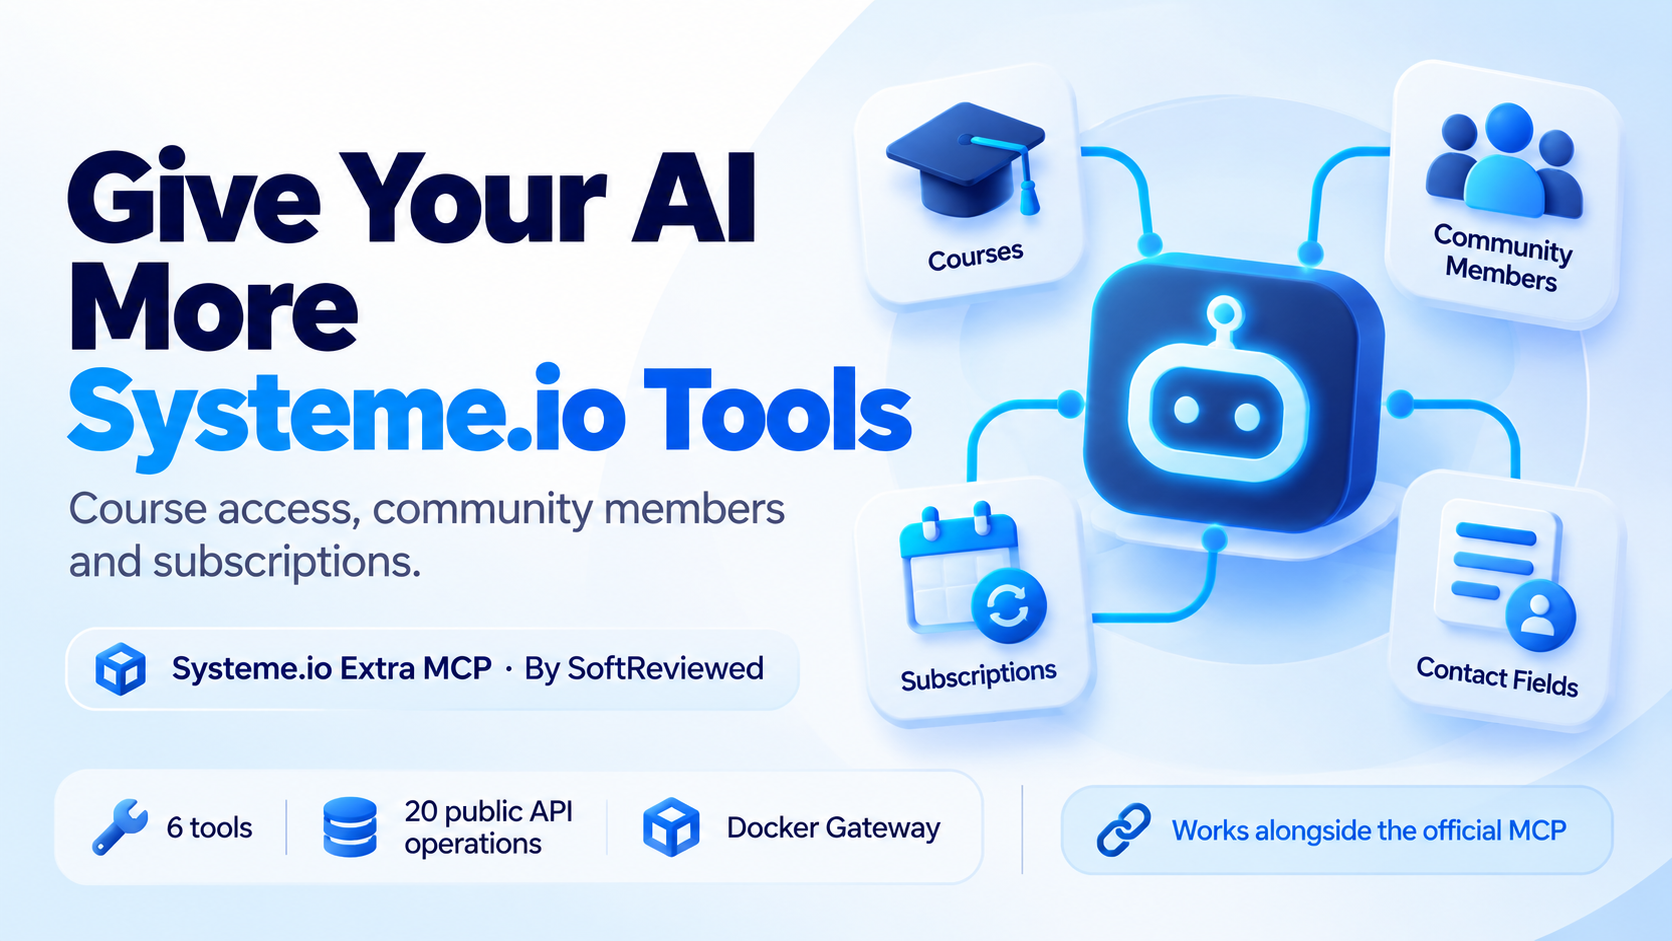
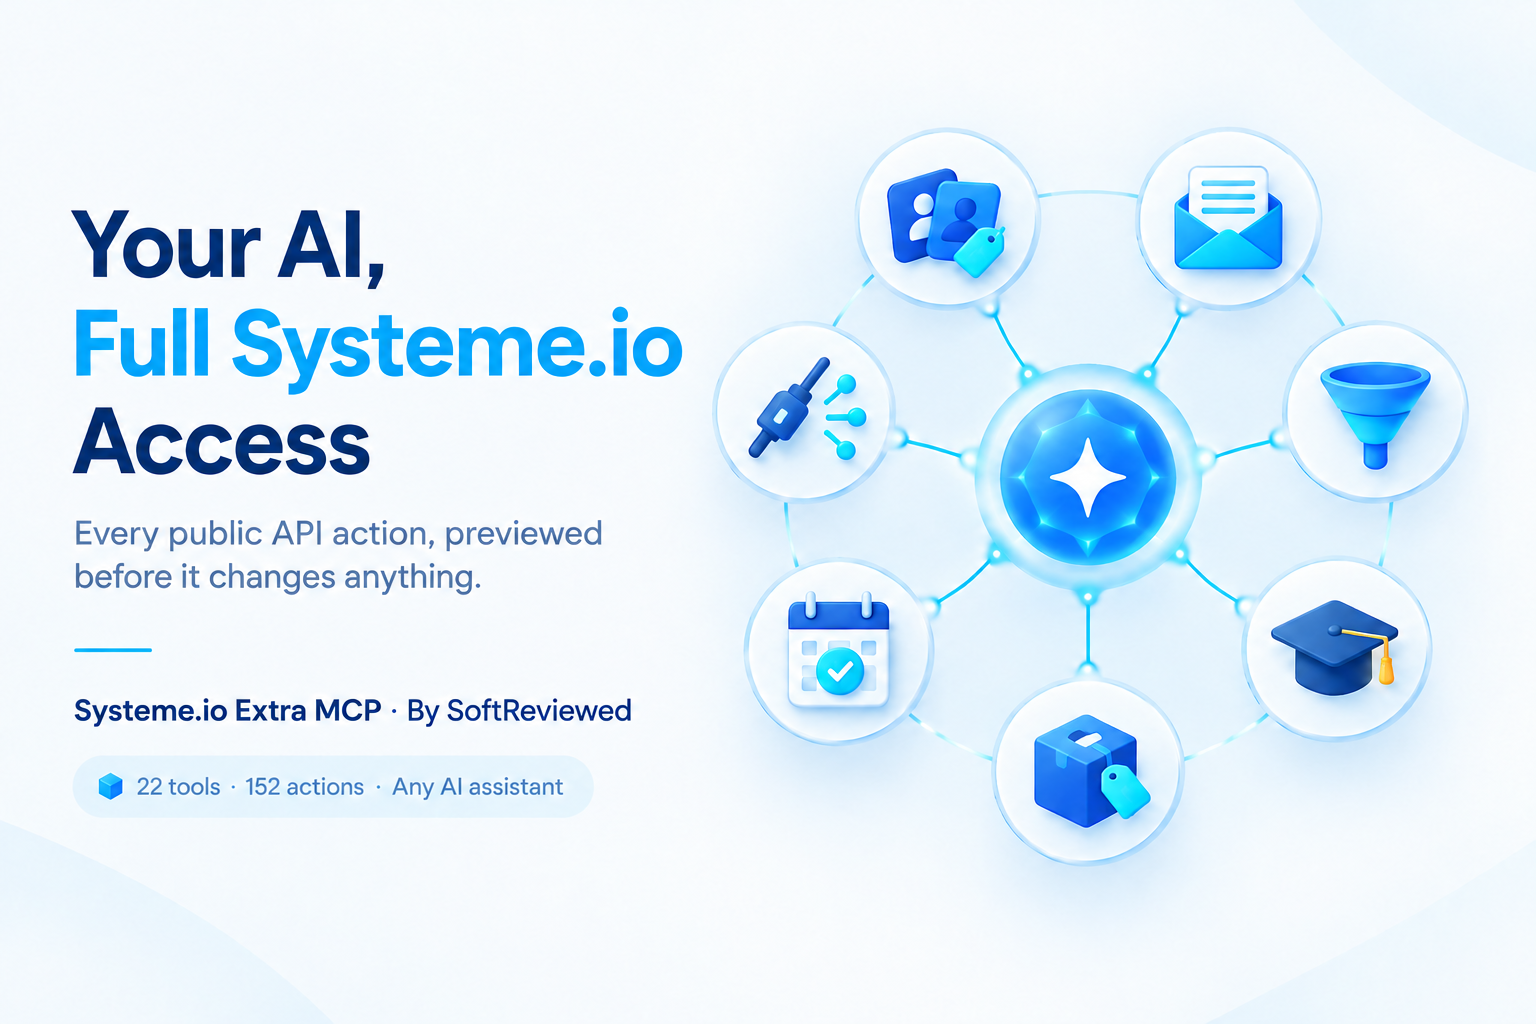
Add no-Docker setup, AI install guide and new images
- AGENTS.md: step-by-step install for assistants (Docker or direct Python)
- README: quick start, key-type guidance, Option B direct Python setup
- examples/clients/direct: config templates for Claude Desktop, Cursor, Antigravity, Codex
- New cover and infographic for the full version
- Restore official Systeme.io MCP overview link

diff --git a/README.md b/README.md
@@ -14,8 +14,30 @@ Here, automation means asking a connected assistant to perform supported actions
 
 Built by SoftReviewed. Independent project; not endorsed by Systeme.io.
 
+![Systeme.io Extra MCP: what the official MCP was missing, comparison, which key to use and how to get started](docs/images/infographic.png)
+
+## Quick start: let your AI install it
+
+1. Create a **Public API key** in Systeme.io: **Settings -> MCP & API keys -> Public API keys -> Create**. (Not the MCP key on the same page; that one only works for the official MCP.)
+2. Paste this into your AI assistant (Claude Code, Codex, Cursor, Antigravity and similar tools that can run commands):
+
+> Install https://github.com/softreviewed/systeme-extra-mcp for me. Follow its AGENTS.md. Keep my other MCP servers. Do not ask me to paste my API key in chat.
+
+3. Save your key when the assistant asks (a hidden prompt, or one line in your config file), then restart the app.
+4. Ask: **"List my Systeme.io tags."** If you see your tags, you are ready.
+
+The assistant picks the setup that fits your computer:
+
+| Your computer has | Setup used | Where the key is kept |
+|---|---|---|
+| Docker Desktop with MCP Toolkit | Docker Gateway | Docker's secret store (safest) |
+| Python 3.11 or newer | Direct Python | Your assistant's config file |
+
+Prefer to do it yourself? Follow [Connect your assistant](#connect-your-assistant).
+
 ## Guide
 
+- [Quick start](#quick-start-let-your-ai-install-it)
 - [What you can do](#what-you-can-do)
 - [Official Systeme.io MCP or this one?](#official-systemeio-mcp-or-this-one)
 - [Is it right for you?](#is-it-right-for-you)
@@ -78,7 +100,9 @@ Only documented endpoints are allowed. Two deprecated endpoints (`PUT` newslette
 | Credential | Official MCP key | Public API key in Docker's secret store |
 | Write protection | Its own rules | Preview, then explicit confirm for every write |
 
-You can use either one alone or both together. The official inventory was inspected on **6 October 2026**; it may change.
+You can use either one alone or both together. See the [official Systeme.io MCP overview](https://systeme.io/mcp) for what it offers. The official inventory was inspected on **6 October 2026**; it may change.
+
+**Which key?** The official MCP uses an **MCP key**. This server uses a **Public API key**. Both are under **Settings -> MCP & API keys**, in separate lists.
 
 ## Is it right for you?
 
@@ -87,16 +111,16 @@ You can use either one alone or both together. The official inventory was inspec
 - **The whole public API in one connection:** 22 tool groups across contacts, email, funnels, courses and payments.
 - **Works without the official MCP:** useful when you want one local connection for every assistant.
 - **Preview before changing account data:** every write is previewed and needs your go-ahead.
-- **Credentials stay out of client configuration:** the API key lives in Docker's secret store.
+- **Two ways to install:** Docker Gateway keeps the key in Docker's secret store; direct Python needs no Docker at all.
 - **Portable setup:** rebuild the image and recreate your secret when moving computers.
 
 ### Trade-offs and limitations
 
-- **Initial setup is technical.** You need Docker Gateway and a Systeme.io public API key. Your assistant or a technical helper can follow the setup below.
+- **Setup takes a few minutes.** You need Docker Desktop or Python 3.11+, and a Systeme.io Public API key. An assistant that can run commands can do the setup for you.
 - **Not every action is tested live.** All 152 are checked offline; live checks cover read actions only. See [verification limits](#verification-limits).
 - **Only what the API offers.** Anything missing from Systeme.io's public API (for example, refunds or sending a single SMS) is missing here too.
 - **Your account's limits still apply.** It does not unlock paid features, raise capacity or bypass permissions.
-- **No built-in cloud hosting.** It runs locally; a cloud-only assistant needs a separately hosted, authenticated connection.
+- **No built-in cloud hosting.** It runs on your computer; a cloud-only assistant needs a separately hosted, authenticated connection.
 
 ## New to Systeme.io?
 
@@ -112,19 +136,26 @@ You can also visit [SoftReviewed](https://softreviewed.com/) for additional reso
 
 ## Let your assistant handle the setup details
 
-Share this repository URL with your assistant and ask:
+Share this repository URL with your assistant and use the prompt from the [Quick start](#quick-start-let-your-ai-install-it). Step-by-step instructions written for assistants are in [AGENTS.md](AGENTS.md): how to choose Docker or direct Python, where each app keeps its config, how to store the key safely and how to check it works.
 
-> Read the README and setup files. Explain which features fit my task, inspect my existing Docker Gateway configuration, and help connect this server without replacing my other servers. Start with help and a harmless read. Do not make account changes without my authorization.
-
-An assistant can read the instructions, but it still needs access to your local setup to configure it. Never put your API key into a public issue or commit.
+An assistant can read the instructions, but it needs to be able to run commands on your computer to set it up (for example Claude Code, Codex, Cursor or Antigravity). A chat-only assistant can still walk you through the steps. Never put your API key into a public issue or commit.
 
 The remaining sections are for installation and technical reference. Exact action names, required inputs and edge cases are in the [detailed feature reference](docs/feature-reference.md); copyable requests are in [the operation examples](examples/operations.json).
 
 ## Connect your assistant
 
-Assistant -> Docker Gateway -> container -> official Systeme.io API.
+Two ways to run it. Both give the same 22 tools.
 
-### Portable catalog setup
+| | Option A: Docker Gateway | Option B: Direct Python |
+|---|---|---|
+| You need | Docker Desktop with MCP Toolkit | Python 3.11 or newer |
+| Key stored in | Docker's secret store | Your assistant's config file |
+| Best for | Keeping keys out of config files; sharing one Gateway | The quickest setup, no Docker |
+
+Option A: Assistant -> Docker Gateway -> container -> Systeme.io API.
+Option B: Assistant -> Python on your computer -> Systeme.io API.
+
+### Option A: Docker Gateway
 
 Install/start Docker Desktop with MCP Toolkit/Gateway available. From this repository, check the CLI and build the image:
 
@@ -181,7 +212,41 @@ try {
 }
 ```
 
-No credentials belong in client JSON or Git. The temporary verification key and its Docker secret were removed; your installation needs its own key. Help and previews work without credentials; account requests do not.
+With Option A, no credentials belong in client JSON. With Option B, the key sits in your assistant's config file on your computer only; never commit or share that file. Help and previews work without credentials; account requests do not.
+
+### Option B: Direct Python (no Docker)
+
+Download the code and install its requirements once:
+
+```sh
+git clone https://github.com/softreviewed/systeme-extra-mcp.git
+cd systeme-extra-mcp
+python -m venv .venv
+```
+
+Then, on Windows: `.venv\Scripts\python -m pip install -r requirements-lock.txt`. On macOS/Linux: `.venv/bin/python -m pip install -r requirements-lock.txt`.
+
+Add this entry to your assistant's config, using the full path to your folder. On Windows the Python path ends in `.venv/Scripts/python.exe`.
+
+```json
+{
+  "mcpServers": {
+    "systeme-extra": {
+      "command": "/ABSOLUTE/PATH/systeme-extra-mcp/.venv/bin/python",
+      "args": ["/ABSOLUTE/PATH/systeme-extra-mcp/server.py"],
+      "env": { "SYSTEME_API_KEY": "YOUR_PUBLIC_API_KEY" }
+    }
+  }
+}
+```
+
+Replace `YOUR_PUBLIC_API_KEY` with your key, save, then fully restart the app. Ready-made files for each app are in [examples/clients/direct](examples/clients/direct/): Claude Desktop, Cursor, Antigravity (JSON) and Codex (TOML). For Claude Code:
+
+```sh
+claude mcp add --transport stdio --scope user systeme-extra --env SYSTEME_API_KEY=YOUR_PUBLIC_API_KEY -- /ABSOLUTE/PATH/systeme-extra-mcp/.venv/bin/python /ABSOLUTE/PATH/systeme-extra-mcp/server.py
+```
+
+The sections below show the Option A (Docker) entry for each app. For Option B, use the same file locations with the entry above.
 
 ### Claude Desktop
 
@@ -316,6 +381,8 @@ The full map of 152 actions, with method, path, required input and read/write ty
 | HTTP 429 | Respect returned retry/rate-limit information |
 | Write timed out | Check account state before retrying |
 | Source edits invisible | Rebuild image and restart client/Gateway |
+| `ModuleNotFoundError` (Option B) | The config must point at the `.venv` Python, not the system one |
+| Tools missing after config edit | Fully quit and reopen the app |
 
 ## Verification limits
 
@@ -323,6 +390,7 @@ The full map of 152 actions, with method, path, required input and read/write ty
 |---|---|
 | Local tests | 20 passed; previews for all 152 actions, write gates, help and mocked HTTP |
 | Docker Gateway | 22 tools and 152 operations listed; write preview passed; no API requests sent |
+| Direct Python (no Docker) | Clean copy installed from `requirements-lock.txt` on Python 3.11; client connected over stdio, 22 tools, write preview passed |
 | Authenticated reads | 28 of 31 read-only checks returned 200, including a subscription list; 3 Twilio checks gave the documented "not configured" replies (424 / 424 / 404) |
 | Live writes | Not performed; local validation only |
 | Individual assistant apps | Configs checked against documentation; not all tested in-app |

diff --git a/docs/images/generation-prompts.md b/docs/images/generation-prompts.md
@@ -1,72 +1,17 @@
 # Visual generation record
 
-Generated with the built-in imagegen tool. Images inspected for text, scope and unclipped layout. Conceptual illustrations, not actual dashboards.
+v2 images generated 13 October 2026 with GPT Image 2 (cover via Merlin, infographic via Qolaba), then text-checked. Conceptual illustrations, not actual dashboards. No recreated Systeme.io logo.
 
-## Cover
+## Cover (16:9)
 
-Create a premium finished wide 16:9 GitHub README cover for Systeme.io Extra MCP by SoftReviewed. Visually match a clean ice-blue, white and navy editorial software cover with cyan-blue accents and polished dimensional meaningful icons. Generous margins, large perfectly legible unclipped text. No people, no actual product UI or generated fake screenshots, no recreated product logos.
-Exact main title: "Give Your AI More Systeme.io Tools"
-Exact subtitle: "Course access, community members and subscriptions."
-Exact compact brand line: "Systeme.io Extra MCP · By SoftReviewed"
-Exact bottom note: "6 tools · 20 public API operations · Docker Gateway"
-Design right side as assistant hub connected to distinct course/graduation, community/people, recurring subscription/calendar and contact-field/form icons, with elegant connector paths. All are conceptual illustrations, not actual dashboards.
-A small clear secondary phrase: "Works alongside the official MCP"
-Keep accurate scope: this companion does not itself build funnels, send email or send SMS. Do not claim those capabilities, conversions, official affiliation, autonomous business operation or that every assistant supports every tool. No fictitious performance figures. Strong readable headline, restrained clean composition and beautiful color. Output one image.
+Premium wide GitHub README cover for "Systeme.io Extra MCP" by SoftReviewed. Ice-blue, white and navy editorial look with cyan-blue accents and dimensional icons. Left text: "Your AI, Full Systeme.io Access" / "Every public API action, previewed before it changes anything." / "Systeme.io Extra MCP · By SoftReviewed" / "22 tools · 152 actions · Any AI assistant". Right: an AI hub connected to contacts, email, funnel, course, product, calendar and webhook icons.
 
-## Infographic
+## Infographic (portrait)
 
-Create a finished premium vertical infographic for the public GitHub README of Systeme.io Extra MCP by SoftReviewed, portrait 2:3 with high-resolution perfectly legible large text. White and pale ice blue, navy typography, blue/cyan accent, polished meaningful icons, generous spacing. No people, fake dashboards, recreated product logos, misleading performance stats. Match an elegant consistent software documentation marketing style. Render exact text with no invented claims:
-
-Title: "Systeme.io Extra MCP"
-Subtitle: "More account tools for your AI assistant"
-Byline: "By SoftReviewed"
-
-Section heading: "Why use it?"
-Three benefits with distinct icons:
-"Handle student access"
-"Manage community membership"
-"Review supported changes before execution"
-
-Section heading: "Six tool groups"
-Use 2-by-3 grid of icons with exact captions:
-"Course enrolments"
-"Community members"
-"Custom contact fields"
-"Customer subscriptions"
-"Webhooks"
-"SMS configuration checks"
-Compact note: "6 tools • 20 public API operations"
-
-Section heading: "Use it alongside the official MCP"
-Two complementary blocks, not superiority claim:
-"Official MCP"
-"Use the account actions it exposes."
-"Extra MCP"
-"Add the supported operations listed above."
-Sentence: "Available actions depend on your connection and account."
-
-Section heading: "How to get started"
-Four numbered connected steps:
-"1  Follow the README setup"
-"2  Add it through Docker Gateway"
-"3  Configure your API key securely"
-"4  Ask for a supported task"
-A prominent workflow strip:
-"Inspect → Preview → Execute → Verify"
-Example panel:
-"Try this"
-"Check a student's course access and preview the change."
-
-Section heading: "Know the limits"
-Exact concise readable lines:
-"Does not build funnels or send campaigns."
-"Does not send SMS or issue refunds."
-"Subscription cancellation ≠ a refund."
-"Account features and connected services may limit actions."
-
-Footer:
-"Get the setup guide"
-"github.com/softreviewed/systeme-extra-mcp"
-Ensure no misleading claim that all20liveoperations tested, no guarantee freeaccount supportsallfeatures. Distincticons no repeated wallet decorations. Logical wraps and no clipped text. Beautiful public-facing infographic.
-
-Extra MCP infographic final refinement replaced letter-S symbols with neutral account icons. No recreated Systeme.io logo is used.
+White and ice-blue, navy type, one amber accent for the recommended key. Sections, exact text:
+- Title "Systeme.io Extra MCP", subtitle "The full Systeme.io public API for your AI assistant", "By SoftReviewed".
+- "What the official MCP was missing": Course enrolments, Community members, Custom field setup, Customer subscriptions, Webhooks, Twilio SMS checks; "Checked 6 October 2026".
+- "Official MCP vs Extra MCP": Coverage (Selected tools | All 152 public API actions); Enrolments & communities (Not included | Included); Every change (Its own rules | Previewed, then you confirm).
+- "Which key do I use?": "MCP key / Only for the official Systeme.io MCP" vs "Public API key / Use this one for Extra MCP"; "Settings → MCP & API keys → Public API keys".
+- "Get started": 1 Paste the repo link into your AI; 2 It sets everything up; 3 You save your Public API key; 4 Ask for any task.
+- Footer "github.com/softreviewed/systeme-extra-mcp", "Independent project, no official affiliation claim."

diff --git a/AGENTS.md b/AGENTS.md
@@ -1,0 +1,94 @@
+# Install guide for AI assistants
+
+A user gave you this repository link and wants Systeme.io Extra MCP ready to use. Follow these steps in order. Ask the user only where a step says so.
+
+## 0. Ground rules
+
+- Never ask the user to paste their API key into the chat. They type it into a secret prompt (Docker route) or into their own config file (direct route).
+- Never print, log or commit the key.
+- Add this server next to the user's existing MCP servers. Never replace or delete other entries in a config file; make a backup copy first.
+- Make no account changes during setup. Verify with `help` and one read only.
+
+## 1. Pick the route
+
+| Check | Route |
+|---|---|
+| `docker mcp gateway run --help` works | **A. Docker Gateway** (key stays in Docker's secret store) |
+| Otherwise, Python 3.11 or newer is installed (`python --version` or `python3 --version`) | **B. Direct Python** (key goes in the client config file) |
+| Neither | Ask the user to install Python 3.11+ (simplest) or Docker Desktop, then restart from step 1 |
+
+## 2. Get the code
+
+```sh
+git clone https://github.com/softreviewed/systeme-extra-mcp.git
+cd systeme-extra-mcp
+```
+
+Use a permanent folder (for example the user's home folder), not a temp folder. Note its absolute path as `REPO`.
+
+## 3A. Docker Gateway route
+
+```sh
+docker build -t mcp-systeme-extra:v2 .
+```
+
+Copy `docker-catalog.yaml` to `~/.docker/mcp/catalogs/systeme-extra.yaml` (Windows: `%USERPROFILE%\.docker\mcp\catalogs\systeme-extra.yaml`). If that file already exists, back it up first, then overwrite it.
+
+Check: `docker mcp gateway run --catalog systeme-extra.yaml --servers systeme-extra --dry-run` lists 22 tools.
+
+Ask the user to store their key themselves. Windows PowerShell:
+
+```powershell
+$k = Read-Host "Systeme.io public API key" -AsSecureString; [Runtime.InteropServices.Marshal]::PtrToStringBSTR([Runtime.InteropServices.Marshal]::SecureStringToBSTR($k)) | docker mcp secret set systeme.api_key
+```
+
+macOS / Linux: `read -rs K && printf %s "$K" | docker mcp secret set systeme.api_key; unset K`
+
+Client entry: command `docker`, args `["mcp", "gateway", "run", "--catalog", "systeme-extra.yaml", "--servers", "systeme-extra"]`. Templates: `examples/clients/*.json` and `examples/clients/codex.toml`.
+
+## 3B. Direct Python route
+
+```sh
+python -m venv .venv
+```
+
+- Windows: `.venv\Scripts\python -m pip install -r requirements-lock.txt`; the Python path is `REPO\.venv\Scripts\python.exe`
+- macOS / Linux: `.venv/bin/python -m pip install -r requirements-lock.txt`; the Python path is `REPO/.venv/bin/python`
+
+Client entry: command = that absolute Python path, args = `["REPO/server.py"]` (absolute), env `SYSTEME_API_KEY`. Templates: `examples/clients/direct/`. In JSON on Windows, write paths with forward slashes or doubled backslashes.
+
+Write the entry with `"YOUR_PUBLIC_API_KEY"` as the value, then tell the user which file to open and ask them to replace that placeholder with their key and save.
+
+## 4. Where each client keeps its config
+
+| Client | File or command |
+|---|---|
+| Claude Desktop | Windows `%APPDATA%\Claude\claude_desktop_config.json`; macOS `~/Library/Application Support/Claude/claude_desktop_config.json` (key `mcpServers`) |
+| Claude Code | `claude mcp add --transport stdio --scope user systeme-extra -- <command> <args...>`; for route B add `--env SYSTEME_API_KEY=...` only if the user types it themselves, or edit `~/.claude.json` |
+| Codex | `~/.codex/config.toml` (`[mcp_servers.systeme_extra]`) |
+| Cursor | `~/.cursor/mcp.json` (key `mcpServers`, `"type": "stdio"`) |
+| Google Antigravity | `~/.gemini/config/mcp_config.json` (key `mcpServers`) |
+| Other stdio clients | Same command, args and env |
+
+After editing, the user must fully restart the client app.
+
+## 5. The key: which one
+
+The user needs a **Public API key**: Systeme.io → Settings → MCP & API keys → **Public API keys** → Create. The **MCP key** on the same page is for the official Systeme.io MCP and is rejected here with HTTP 401 "Invalid API Key."
+
+## 6. Verify
+
+1. Call `systeme_extra_tags` with `action: "help"`. Expect a list of actions and `configured: true`.
+2. Call `systeme_extra_tags` with `action: "list"`. Expect `ok: true`, status 200.
+3. Tell the user it is ready, and give two example requests from the README.
+
+| Problem | Fix |
+|---|---|
+| `configured: false` | Key not stored or placeholder not replaced; restart the client after fixing |
+| 401 "Invalid API Key." | Wrong key type (MCP key) or deleted key; create a Public API key |
+| No tools shown | Wrong path in config, or client not restarted |
+| `ModuleNotFoundError` | Command is not the `.venv` Python; use the absolute venv path |
+
+## 7. Using it
+
+Every write needs a preview (`dry_run: true`) shown to the user, their clear yes, then the same call with `confirm: true`. Actions marked `high_impact` in `help` (sending newsletters, deleting, cancelling subscriptions, overwriting pages) deserve extra care. Full action list: `docs/feature-reference.md`.

diff --git a/docs/verification.md b/docs/verification.md
@@ -9,6 +9,8 @@
 - Gateway smoke test (`tests/gateway_smoke.py`): 22 tools, 152 operations and a write preview; no API requests sent.
 - Live read-only checks (`tests/live_read_checks.py`, 30 GET actions plus a subscription list): 28 returned HTTP 200 across all groups; SMS services, numbers and Twilio account returned the documented 424 / 424 / 404 because Twilio is not connected. The user's own public API key was used via Docker secrets. No writes performed.
 - Note: the official MCP key does not work here; this server needs a key from **Public API keys** (Systeme.io replies "Invalid API Key." otherwise).
+- Direct Python route: a clean `git archive` copy installed into a new venv from `requirements-lock.txt` (Python 3.11.9); a stdio client listed 22 tools and a write preview passed.
+- `AGENTS.md` added so an assistant given the repo link can install either route.
 - Live writes: not performed.
 - GitHub publication: not performed.
 
